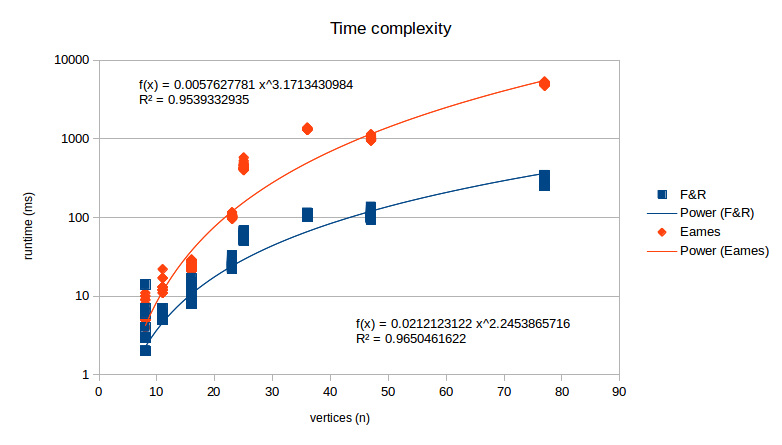
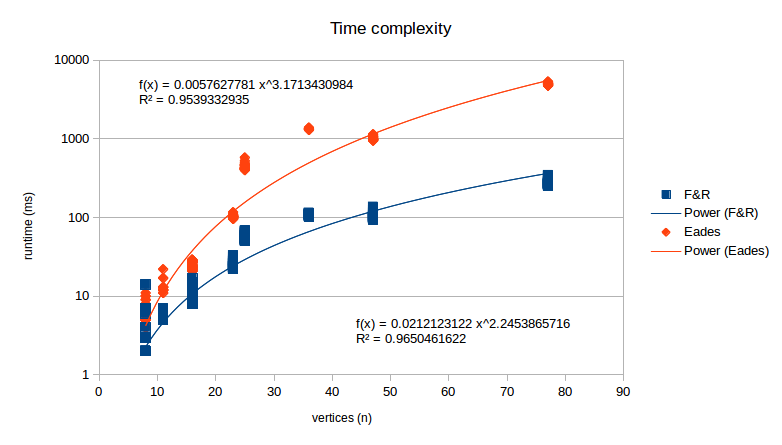
add to conclusion, fix typo

diff --git a/research report.tex b/research report.tex
@@ -75,7 +75,7 @@ As output data, we get optimised graphs of course, but in order to answer our su
 Our results were interesting and proved some of our hypotheses right while proving others wrong. We continuously used 5 tests per different variable setting.
 \begin{itemize}
 \item We hypothesised that the runtime of the algorithm increases linearly as the number of iterations increases. This implies that each iteration computes in roughly the same amount of time.
-\item We hypothesised that the runtime of the algorithm increases quadratically as the number of input vertices increases. This has been proven mostly true. As shown in the figure below, both F\&R and Eames are a good fit, with Coëfficients of Determination above 0.95. Furthermore, a two-tailed, paired-samples t-test shows that the runtime values are clearly unrelated with $p = 3.8 * 10^{-17}$. Interestingly, Eames shows $O(n^3)$-like behaviour, whereas $O(n^2)$ is expected. F\&R does behave as expected.
+\item We hypothesised that the runtime of the algorithm increases quadratically as the number of input vertices increases. This has been proven mostly true. As shown in the figure below, both F\&R and Eades are a good fit, with Coëfficients of Determination above 0.95. Furthermore, a two-tailed, paired-samples t-test shows that the runtime values are clearly unrelated with $p = 3.8 * 10^{-17}$ with $n = 570$. Interestingly, Eades shows $\mathcal{O}(n^3)$-like behaviour, whereas $\mathcal{O}(n^2)$ is expected. F\&R does behave as expected.
 \begin{figure}[h]
   \centering
   \includegraphics[height=7cm]{timecomplexity}
@@ -97,10 +97,10 @@ The resulting graphs became smaller and smaller and as such, became increasingly
 The resulting graphs became bigger and bigger and as such they became hard to read and put into one image. The standard deviation increased as well.
 \end{itemize}
 
-
 \section{Discussion and conclusion}
-Our conclusion is that even though the technology has vastly improved over the years since 1984, the algorithm of Eades is still fairly accurate as we saw that it sometimes took several minutes in order to come up with output data. We also saw that the constants in Eades' algorithm are accurate. Finally we were able to see that Fruchterman and Reingold's extension had a much shorter runtime, but it still increased greatly as the graphs grew. As such, the limit of 30 vertices on Eades and the limit of 40 vertices on Fruchterman and Reingold are still fairly accurate. We may be able to increase these limits slightly, but not by a whole lot as this still takes a lot of time.
+In the previous section, we mention that the measured time complexity of Eades shows $\mathcal{O}(n^3)$-like behaviour. This is quite interesting, as the literature shows that $\mathcal{O}(n^2)$ is to be expected. Although our implementation closely matches the pseudocode given, small variations may nonetheless have occurred. We have been unable to pinpoint a cause, but algorithmic errors in the less well-specified parts of the algorithm are our main suspect.
 
+Our conclusion is that even though the technology has vastly improved over the years since 1984, the algorithm of Eades is still fairly accurate as we saw that it sometimes took several minutes in order to come up with output data. We also saw that the constants in Eades' algorithm are accurate. Finally we were able to see that Fruchterman and Reingold's extension had a much shorter runtime, but it still increased greatly as the graphs grew. As such, the limit of 30 vertices on Eades and the limit of 40 vertices on Fruchterman and Reingold are still fairly accurate. We may be able to increase these limits slightly, but not by a whole lot as this still takes a lot of time.
 
 \section{Reflection}
 During our reflection of this project we have seen how we worked, what we accomplished and of course how we can improve. First of all, we underestimated certain aspects of this research. After we had found our algorithm to implement, we thought that we would be done rather quickly but we soon discovered it was far more work than we thought it would be. The implementation turned out to still be fairly challenging. This caused us to get stuck on this for longer than we would have liked. Our initial plans for test-data did not work out as we had hoped. We wanted to use the Dutch railway system as a graph, however we were unable to get this information and so we have had to scrap the idea. Handling the results still turned out to be quite the task and we have not been able to write down all that we wanted to write down. We were able to make a decent answer to our research question, but this could still need improvements since we did not have a clear question at the start of our project. It also did not help that one of our team members had to quit due to personal reasons. Overall, this was a good learning experience and we hope to be able to improve on this should we do research again.
